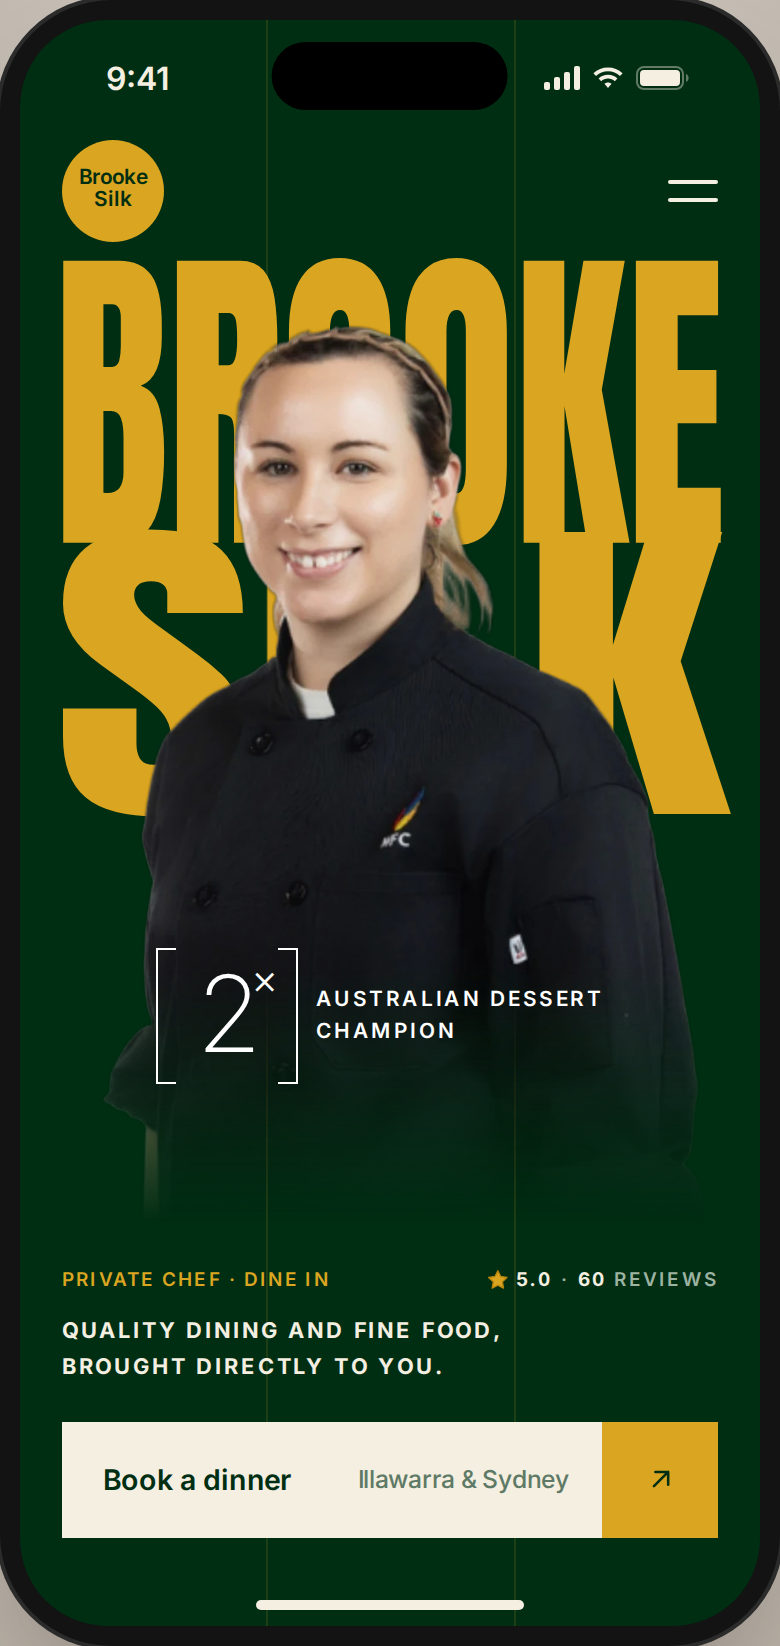
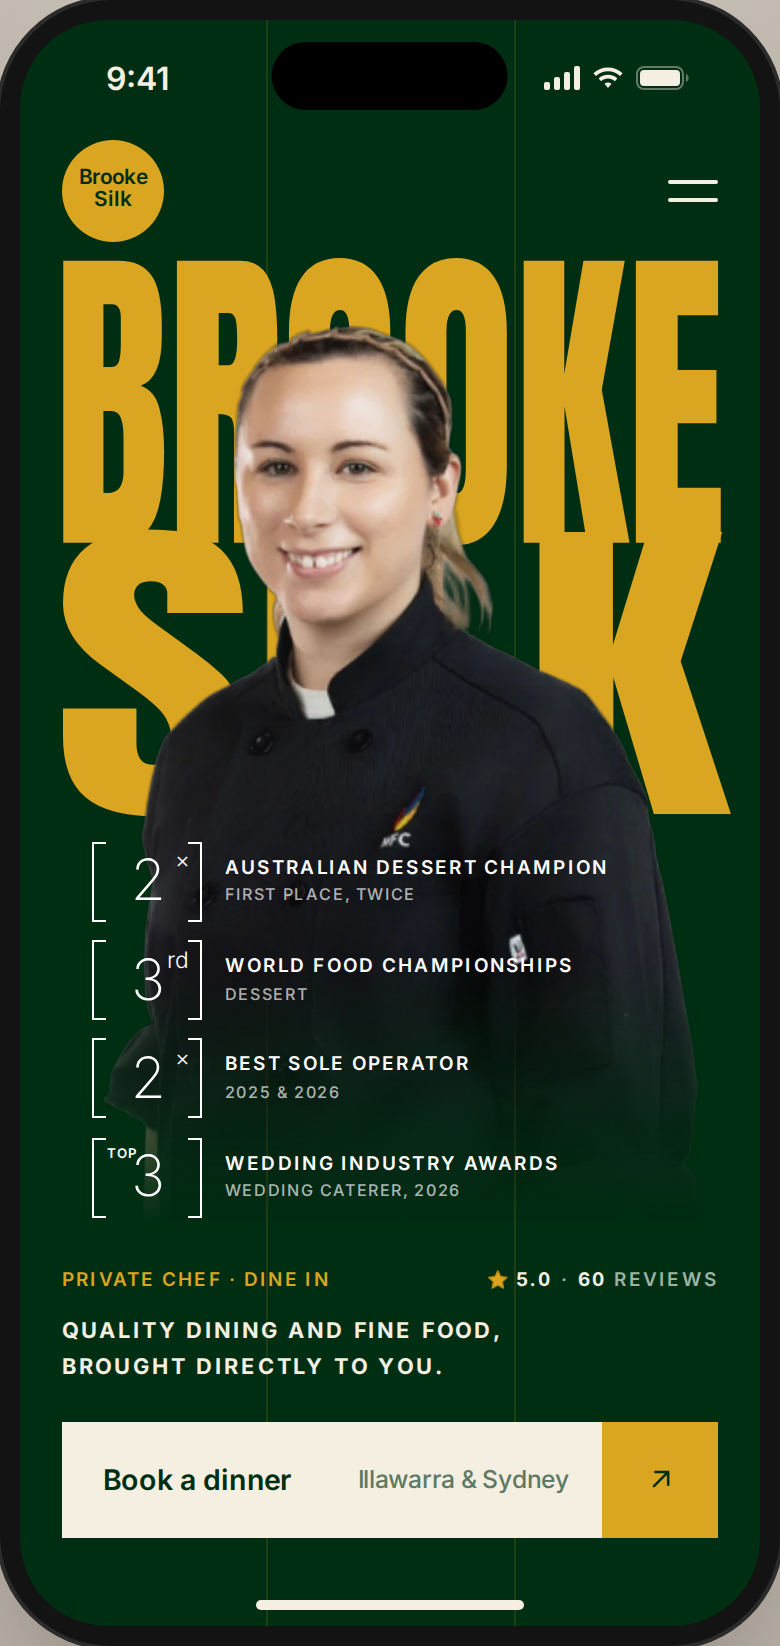
Chef card: stack Brooke's four awards on the jacket
The single dessert-champion stat becomes a list of four bracketed awards,
each with a title and a detail line: 2x Australian dessert champion (first
place, twice), 3rd at the World Food Championships (dessert), 2x Best Sole
Operator (2025 & 2026), and Top 3 at the Wedding Industry Awards (wedding
caterer, 2026).

The list loads as one intro row: items fill in 100ms apart and their
numbers count up on the same stagger (new data-ui-chef-stagger).

Claude-Session: https://claude.ai/code/session_01Dn2sZdZCxPbGjUxXXUAMP8

diff --git a/components/chef-card/style.css b/components/chef-card/style.css
@@ -179,27 +179,35 @@
   mask-image: linear-gradient(to right, transparent, #000 7%);
 }
 
-/* ---- Stat on the shirt ------------------------------------------------- */
+/* ---- Awards on the jacket -------------------------------------------- */
 
-.ui-chef__stat {
+.ui-chef__stats {
   position: absolute;
-  top: calc(var(--ui-chef-inset-top) + 440 * var(--u));
-  left: calc(72 * var(--u));
+  top: calc(var(--ui-chef-inset-top) + 384 * var(--u));
+  left: calc(38 * var(--u));
   z-index: 3;
-  display: flex;
-  align-items: center;
+  display: grid;
   gap: calc(10 * var(--u));
   margin: 0;
+  padding: 0;
+  list-style: none;
   color: #FFFFFF;
+}
+
+.ui-chef__stat {
+  display: flex;
+  align-items: center;
+  gap: calc(12 * var(--u));
 }
 
 .ui-chef__stat-num {
   position: relative;
+  flex: none;
   display: grid;
   place-items: center;
-  width: calc(74 * var(--u));
-  height: calc(72 * var(--u));
-  font-size: calc(56 * var(--u));
+  width: calc(58 * var(--u));
+  height: calc(42 * var(--u));
+  font-size: calc(30 * var(--u));
   font-weight: 200;
   letter-spacing: -0.04em;
   line-height: 1;
@@ -213,28 +221,50 @@
   position: absolute;
   top: 0;
   bottom: 0;
-  width: calc(9 * var(--u));
+  width: calc(6 * var(--u));
   border: 1.5px solid currentColor;
 }
 
 .ui-chef__stat-num::before { left: 0; border-right: 0; }
 .ui-chef__stat-num::after { right: 0; border-left: 0; }
 
+/* Superscript after the number (×, rd) and, for "Top 3", a small word before it */
 .ui-chef__stat-num sup {
   position: absolute;
-  top: calc(6 * var(--u));
-  right: calc(12 * var(--u));
-  font-size: calc(22 * var(--u));
+  top: calc(5 * var(--u));
+  right: calc(7 * var(--u));
+  font-size: calc(12 * var(--u));
   font-weight: 300;
+  letter-spacing: 0;
   line-height: 1;
 }
 
+.ui-chef__stat-num .ui-chef__stat-pre {
+  right: auto;
+  left: calc(8 * var(--u));
+  top: calc(6 * var(--u));
+  font-size: calc(7 * var(--u));
+  font-weight: 600;
+  letter-spacing: 0.1em;
+  text-transform: uppercase;
+}
+
 .ui-chef__stat-label {
-  font-size: calc(11 * var(--u));
+  display: grid;
+  justify-items: start;
+  gap: calc(4 * var(--u));
+  font-size: calc(10 * var(--u));
   font-weight: 600;
   letter-spacing: 0.12em;
-  line-height: 1.5;
+  line-height: 1.15;
   text-transform: uppercase;
+}
+
+.ui-chef__stat-sub {
+  color: rgba(255, 255, 255, 0.68);
+  font-size: calc(8.5 * var(--u));
+  font-weight: 500;
+  letter-spacing: 0.1em;
 }
 
 /* ---- Footer ------------------------------------------------------------ */
@@ -394,10 +424,11 @@
 /* Skeleton: until it loads, each row of information (the stat, the meta row,
    the tagline and the button) is a quiet placeholder in the exact shape of
    its text: a faint tint of the ink with a slow shine. script.js loads the
-   rows one at a time with .is-in, each starting as the one before settles,
+   rows one at a time with .is-in (the awards on the jacket count as one row,
+   staggered), each starting as the one before settles,
    and the row fills in with its real colours as it lifts into place. */
-.ui-chef.is-armed :is(.ui-chef__stat, .ui-chef__body > *).is-in,
-.ui-chef.is-armed :is(.ui-chef__stat, .ui-chef__body > *).is-in :is(*, *::before, *::after) {
+.ui-chef.is-armed :is(.ui-chef__stats, .ui-chef__body > *).is-in,
+.ui-chef.is-armed :is(.ui-chef__stats, .ui-chef__body > *).is-in :is(*, *::before, *::after) {
   /* Only on the way in: arming (or replaying) switches to the skeleton at once */
   transition:
     color 0.4s ease,
@@ -405,15 +436,24 @@
     transform 0.35s cubic-bezier(0.2, 0.8, 0.2, 1);
 }
 
-.ui-chef.is-armed :is(.ui-chef__stat, .ui-chef__body > *).is-in {
+/* The awards fill in one after another (matches data-ui-chef-stagger) */
+.ui-chef__stats > :nth-child(2) { --ui-chef-stagger: 0.1s; }
+.ui-chef__stats > :nth-child(3) { --ui-chef-stagger: 0.2s; }
+.ui-chef__stats > :nth-child(4) { --ui-chef-stagger: 0.3s; }
+
+.ui-chef.is-armed .ui-chef__stats.is-in > * :is(*, *::before, *::after) {
+  transition-delay: var(--ui-chef-stagger, 0s);
+}
+
+.ui-chef.is-armed :is(.ui-chef__stats, .ui-chef__body > *).is-in {
   animation: ui-chef-land 0.45s cubic-bezier(0.2, 0.8, 0.2, 1);
 }
 
-.ui-chef.is-armed :is(.ui-chef__stat, .ui-chef__body > *):not(.is-in) :is(*, *::before, *::after) {
+.ui-chef.is-armed :is(.ui-chef__stats, .ui-chef__body > *):not(.is-in) :is(*, *::before, *::after) {
   color: transparent;
 }
 
-.ui-chef.is-armed :is(.ui-chef__stat, .ui-chef__body > *):not(.is-in) :is(.ui-chef__stat-num, .ui-chef__stat-label > span, .ui-chef__role, .ui-chef__proof, .ui-chef__tagline > span),
+.ui-chef.is-armed :is(.ui-chef__stats, .ui-chef__body > *):not(.is-in) :is(.ui-chef__stat-num, .ui-chef__stat-label > span, .ui-chef__role, .ui-chef__proof, .ui-chef__tagline > span),
 .ui-chef.is-armed .ui-chef__cta:not(.is-in) {
   background-color: var(--ui-chef-skel);
   background-image: linear-gradient(100deg, transparent 35%, var(--ui-chef-skel-shine) 50%, transparent 65%);
@@ -423,7 +463,7 @@
   animation: ui-chef-shimmer 1.8s linear infinite;
 }
 
-.ui-chef.is-armed :is(.ui-chef__stat, .ui-chef__body > *):not(.is-in) :is(.ui-chef__stat-num, .ui-chef__stat-label > span, .ui-chef__role, .ui-chef__proof, .ui-chef__tagline > span) {
+.ui-chef.is-armed :is(.ui-chef__stats, .ui-chef__body > *):not(.is-in) :is(.ui-chef__stat-num, .ui-chef__stat-label > span, .ui-chef__role, .ui-chef__proof, .ui-chef__tagline > span) {
   border-radius: calc(3 * var(--u));
 }
 

diff --git a/components/chef-card/index.html b/components/chef-card/index.html
@@ -132,10 +132,24 @@
           <img class="ui-chef__img" src="images/brooke-silk.webp" width="818" height="1118" alt="Brooke Silk, smiling, in a black chef's jacket" decoding="async">
         </figure>
 
-        <p class="ui-chef__stat">
-          <span class="ui-chef__stat-num"><span data-ui-chef-count>2</span><sup>×</sup></span>
-          <span class="ui-chef__stat-label"><span>Australian dessert<br>champion</span></span>
-        </p>
+        <ul class="ui-chef__stats" data-ui-chef-stagger="100" aria-label="Awards">
+          <li class="ui-chef__stat">
+            <span class="ui-chef__stat-num"><span data-ui-chef-count>2</span><sup>×</sup></span>
+            <span class="ui-chef__stat-label"><span>Australian dessert champion</span><span class="ui-chef__stat-sub">First place, twice</span></span>
+          </li>
+          <li class="ui-chef__stat">
+            <span class="ui-chef__stat-num"><span data-ui-chef-count>3</span><sup>rd</sup></span>
+            <span class="ui-chef__stat-label"><span>World Food Championships</span><span class="ui-chef__stat-sub">Dessert</span></span>
+          </li>
+          <li class="ui-chef__stat">
+            <span class="ui-chef__stat-num"><span data-ui-chef-count>2</span><sup>×</sup></span>
+            <span class="ui-chef__stat-label"><span>Best Sole Operator</span><span class="ui-chef__stat-sub">2025 &amp; 2026</span></span>
+          </li>
+          <li class="ui-chef__stat">
+            <span class="ui-chef__stat-num"><sup class="ui-chef__stat-pre">Top</sup><span data-ui-chef-count>3</span></span>
+            <span class="ui-chef__stat-label"><span>Wedding Industry Awards</span><span class="ui-chef__stat-sub">Wedding caterer, 2026</span></span>
+          </li>
+        </ul>
 
         <div class="ui-chef__body">
           <p class="ui-chef__meta" data-ui-chef-pause="300">

diff --git a/components/chef-card/script.js b/components/chef-card/script.js
@@ -11,7 +11,8 @@
       row, the tagline and the button. A row's numbers start counting once
       the row has finished filling in, and the next row starts as they
       settle. data-ui-chef-pause="300" on a row adds that many ms before it
-      loads.
+      loads, and data-ui-chef-stagger="100" starts its numbers 100ms apart
+      (the awards on the jacket use it, matching their staggered fill).
 
    Counting: every [data-ui-chef-count] runs from data-ui-chef-count-from
    (default 0) to the number written in it, so it can count up (0 → 120) or
@@ -170,7 +171,7 @@
   }
 
   function rowsOf(card) {
-    return Array.prototype.slice.call(card.querySelectorAll(".ui-chef__stat, .ui-chef__body > *"));
+    return Array.prototype.slice.call(card.querySelectorAll(".ui-chef__stats, .ui-chef__body > *"));
   }
 
   // Pins each number that counts up to the width of its final value, in em so
@@ -265,9 +266,12 @@
         // Count only once the row has fully filled in, so the start ($100)
         // is readable before it moves
         t += ROW_FILL + COUNT_HOLD;
-        later(t, function () {
-          numbers.forEach(function (el) { count(el, timers); });
+        // A row can stagger its numbers (data-ui-chef-stagger, ms apart)
+        var stagger = parseFloat(row.dataset.uiChefStagger) || 0;
+        numbers.forEach(function (el, i) {
+          later(t + i * stagger, function () { count(el, timers); });
         });
+        t += (numbers.length - 1) * stagger;
         var star = row.querySelector(".ui-chef__star");
         if (star) later(t + COUNT_TIME + 60, function () { sparkle(card, star, timers); });
         t += COUNT_TIME * COUNT_HANDOFF;

diff --git a/components/chef-card/README.md b/components/chef-card/README.md
@@ -1,6 +1,6 @@
 # Chef Card
 
-The Dine In edition of the [profile card](../profile-card/), for private chef Brooke Silk. It has the same layout and intro, rebranded in Dine In's green and gold: "BROOKE / SILK" in gold on Dine In green, her cut-out portrait in front of the name, a bracketed stat on her chef's jacket, and a tagline and split "Book a dinner" button below.
+The Dine In edition of the [profile card](../profile-card/), for private chef Brooke Silk. It has the same layout and intro, rebranded in Dine In's green and gold: "BROOKE / SILK" in gold on Dine In green, her cut-out portrait in front of the name, her four awards stacked on her chef's jacket, and a tagline and split "Book a dinner" button below.
 
 ![Chef card preview](preview.png)
 
@@ -8,7 +8,11 @@ The Dine In edition of the [profile card](../profile-card/), for private chef Br
   - Top bar: a round gold monogram ("Brooke Silk") on the left, a two-line ivory menu button on the right.
   - Name: "BROOKE / SILK" in gold, each line stretched to the full width. The lines touch, and the portrait covers their middle.
   - Portrait: Brooke from the head to just below the pocket, in her black chef's jacket. It fades into the green around the hem.
-  - Stat: `[2×] AUSTRALIAN DESSERT CHAMPION` in white on the jacket.
+  - Awards: four bracketed stats stacked in white on the jacket, each with a title and a smaller detail line:
+    - `[2×]` Australian dessert champion: first place, twice
+    - `[3rd]` World Food Championships: dessert
+    - `[2×]` Best Sole Operator: 2025 & 2026
+    - `[Top 3]` Wedding Industry Awards: wedding caterer, 2026
   - Meta row: "Private chef · Dine In" in gold on the left, and her Google rating (★ 5.0 · 60 reviews) on the right.
   - Tagline: "Quality dining and fine food, brought directly to you." in tracked ivory uppercase.
   - Button: an ivory bar with "Book a dinner" and the service area "Illawarra & Sydney", plus a gold square with an arrow.
@@ -18,7 +22,7 @@ The Dine In edition of the [profile card](../profile-card/), for private chef Br
   1. The name types out letter by letter (BROOKE, a short pause, then SILK) behind a blinking gold caret.
   2. As the last letter lands, the portrait opens out from the centre of the face.
   3. The information then loads one row at a time:
-     - the stat counts 0 → 2
+     - the awards, as one row: they fill in 0.1s apart, and each number counts up as it lands (0 → 2, 0 → 3rd, 0 → 2, top 0 → 3)
      - after a short pause, the meta row: ★ 0.0 → 5.0 and 0 → 60 reviews. When the rating reaches 5.0, gold sparkles fly into the star, and it jumps, turns gold and stays gold.
      - after a short pause, the tagline
      - after another short pause, the button
@@ -67,10 +71,24 @@ Plain HTML, CSS and vanilla JS, no dependencies. Classes are prefixed `ui-chef`,
       <img class="ui-chef__img" src="images/brooke-silk.webp" width="818" height="1118" alt="Brooke Silk, smiling, in a black chef's jacket" decoding="async">
     </figure>
 
-    <p class="ui-chef__stat">
-      <span class="ui-chef__stat-num"><span data-ui-chef-count>2</span><sup>×</sup></span>
-      <span class="ui-chef__stat-label"><span>Australian dessert<br>champion</span></span>
-    </p>
+    <ul class="ui-chef__stats" data-ui-chef-stagger="100" aria-label="Awards">
+      <li class="ui-chef__stat">
+        <span class="ui-chef__stat-num"><span data-ui-chef-count>2</span><sup>×</sup></span>
+        <span class="ui-chef__stat-label"><span>Australian dessert champion</span><span class="ui-chef__stat-sub">First place, twice</span></span>
+      </li>
+      <li class="ui-chef__stat">
+        <span class="ui-chef__stat-num"><span data-ui-chef-count>3</span><sup>rd</sup></span>
+        <span class="ui-chef__stat-label"><span>World Food Championships</span><span class="ui-chef__stat-sub">Dessert</span></span>
+      </li>
+      <li class="ui-chef__stat">
+        <span class="ui-chef__stat-num"><span data-ui-chef-count>2</span><sup>×</sup></span>
+        <span class="ui-chef__stat-label"><span>Best Sole Operator</span><span class="ui-chef__stat-sub">2025 &amp; 2026</span></span>
+      </li>
+      <li class="ui-chef__stat">
+        <span class="ui-chef__stat-num"><sup class="ui-chef__stat-pre">Top</sup><span data-ui-chef-count>3</span></span>
+        <span class="ui-chef__stat-label"><span>Wedding Industry Awards</span><span class="ui-chef__stat-sub">Wedding caterer, 2026</span></span>
+      </li>
+    </ul>
 
     <div class="ui-chef__body">
       <p class="ui-chef__meta" data-ui-chef-pause="300">
@@ -92,6 +110,8 @@ Plain HTML, CSS and vanilla JS, no dependencies. Classes are prefixed `ui-chef`,
 </article>
 <script src="script.js"></script>
 ```
+
+The awards are a list (`ui-chef__stats`). Each `ui-chef__stat` has a bracketed number and a label with a title and a `ui-chef__stat-sub` detail line. A `<sup>` after the number (×, rd) sits top right, and a `<sup class="ui-chef__stat-pre">` before it (Top) sits top left. The list loads as one row of the intro, with `data-ui-chef-stagger="100"` starting each number 100ms after the last, matching the CSS stagger. Four awards fit on the jacket; for more, raise the list's `top` or tighten its `gap`.
 
 The caret is the `ui-chef__caret` rect inside the name's SVG. Mark any number that should count with `data-ui-chef-count`, as in `<span data-ui-chef-count>2</span><sup>×</sup>`. The number written in the HTML is the one it ends on, and the one shown without the script. It counts up from 0 unless `data-ui-chef-count-from` gives another start. A start above the final number makes it count down, so a price like `from $<span data-ui-chef-count data-ui-chef-count-from="100">60</span>` counts down to 60. To add a short pause before a row loads, put `data-ui-chef-pause` on it with a time in milliseconds. The meta row uses `data-ui-chef-pause="300"`, and the tagline and button each use `200`.
 

diff --git a/README.md b/README.md
@@ -17,4 +17,4 @@ Reusable UI components in plain HTML, CSS and vanilla JS, ready to drop into any
 | [Numeric text (React)](components/numeric-text-react/) | React component: changed digits roll as an odometer, with an optional motion blur that follows the digit's speed |
 | [Product card](components/product-card/) | Editorial product hero: giant wordmark, a floating cut-out over a two-tone stage, colourway swatches that retint the card, and an animated Add to bag. Includes a Shopify section |
 | [Profile card](components/profile-card/) | Editorial coach profile: a giant two-line name behind a cut-out portrait, a bracketed stat on the shirt, and a split "Book a session" button |
-| [Chef card](components/chef-card/) | The profile card rebranded for Dine In's Brooke Silk: gold on Dine In green, with a dessert-champion stat, her Google rating and a "Book a dinner" button |
+| [Chef card](components/chef-card/) | The profile card rebranded for Dine In's Brooke Silk: gold on Dine In green, with her four awards on the jacket, her Google rating and a "Book a dinner" button |
